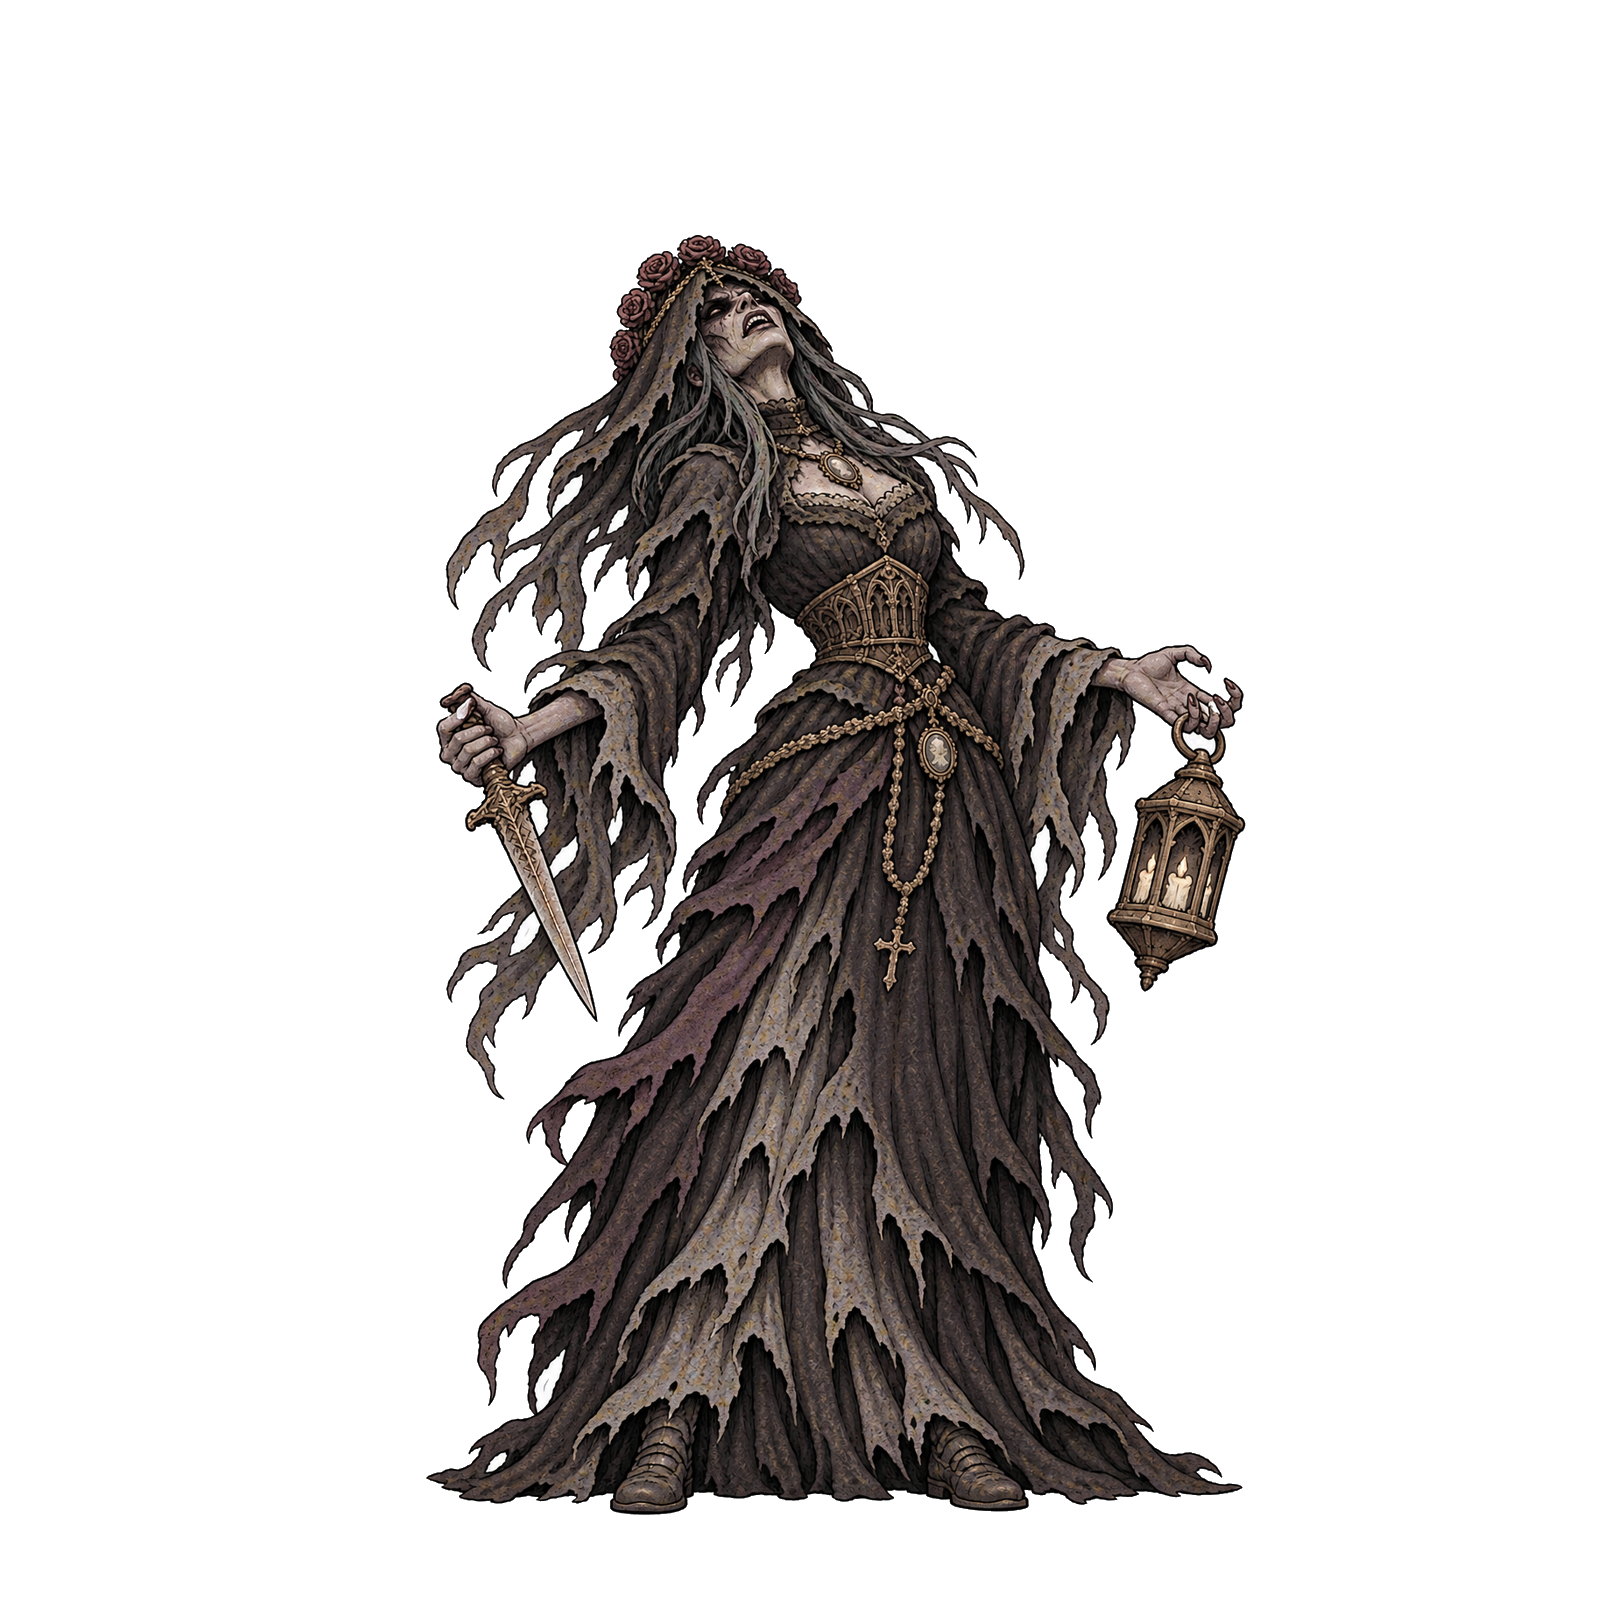
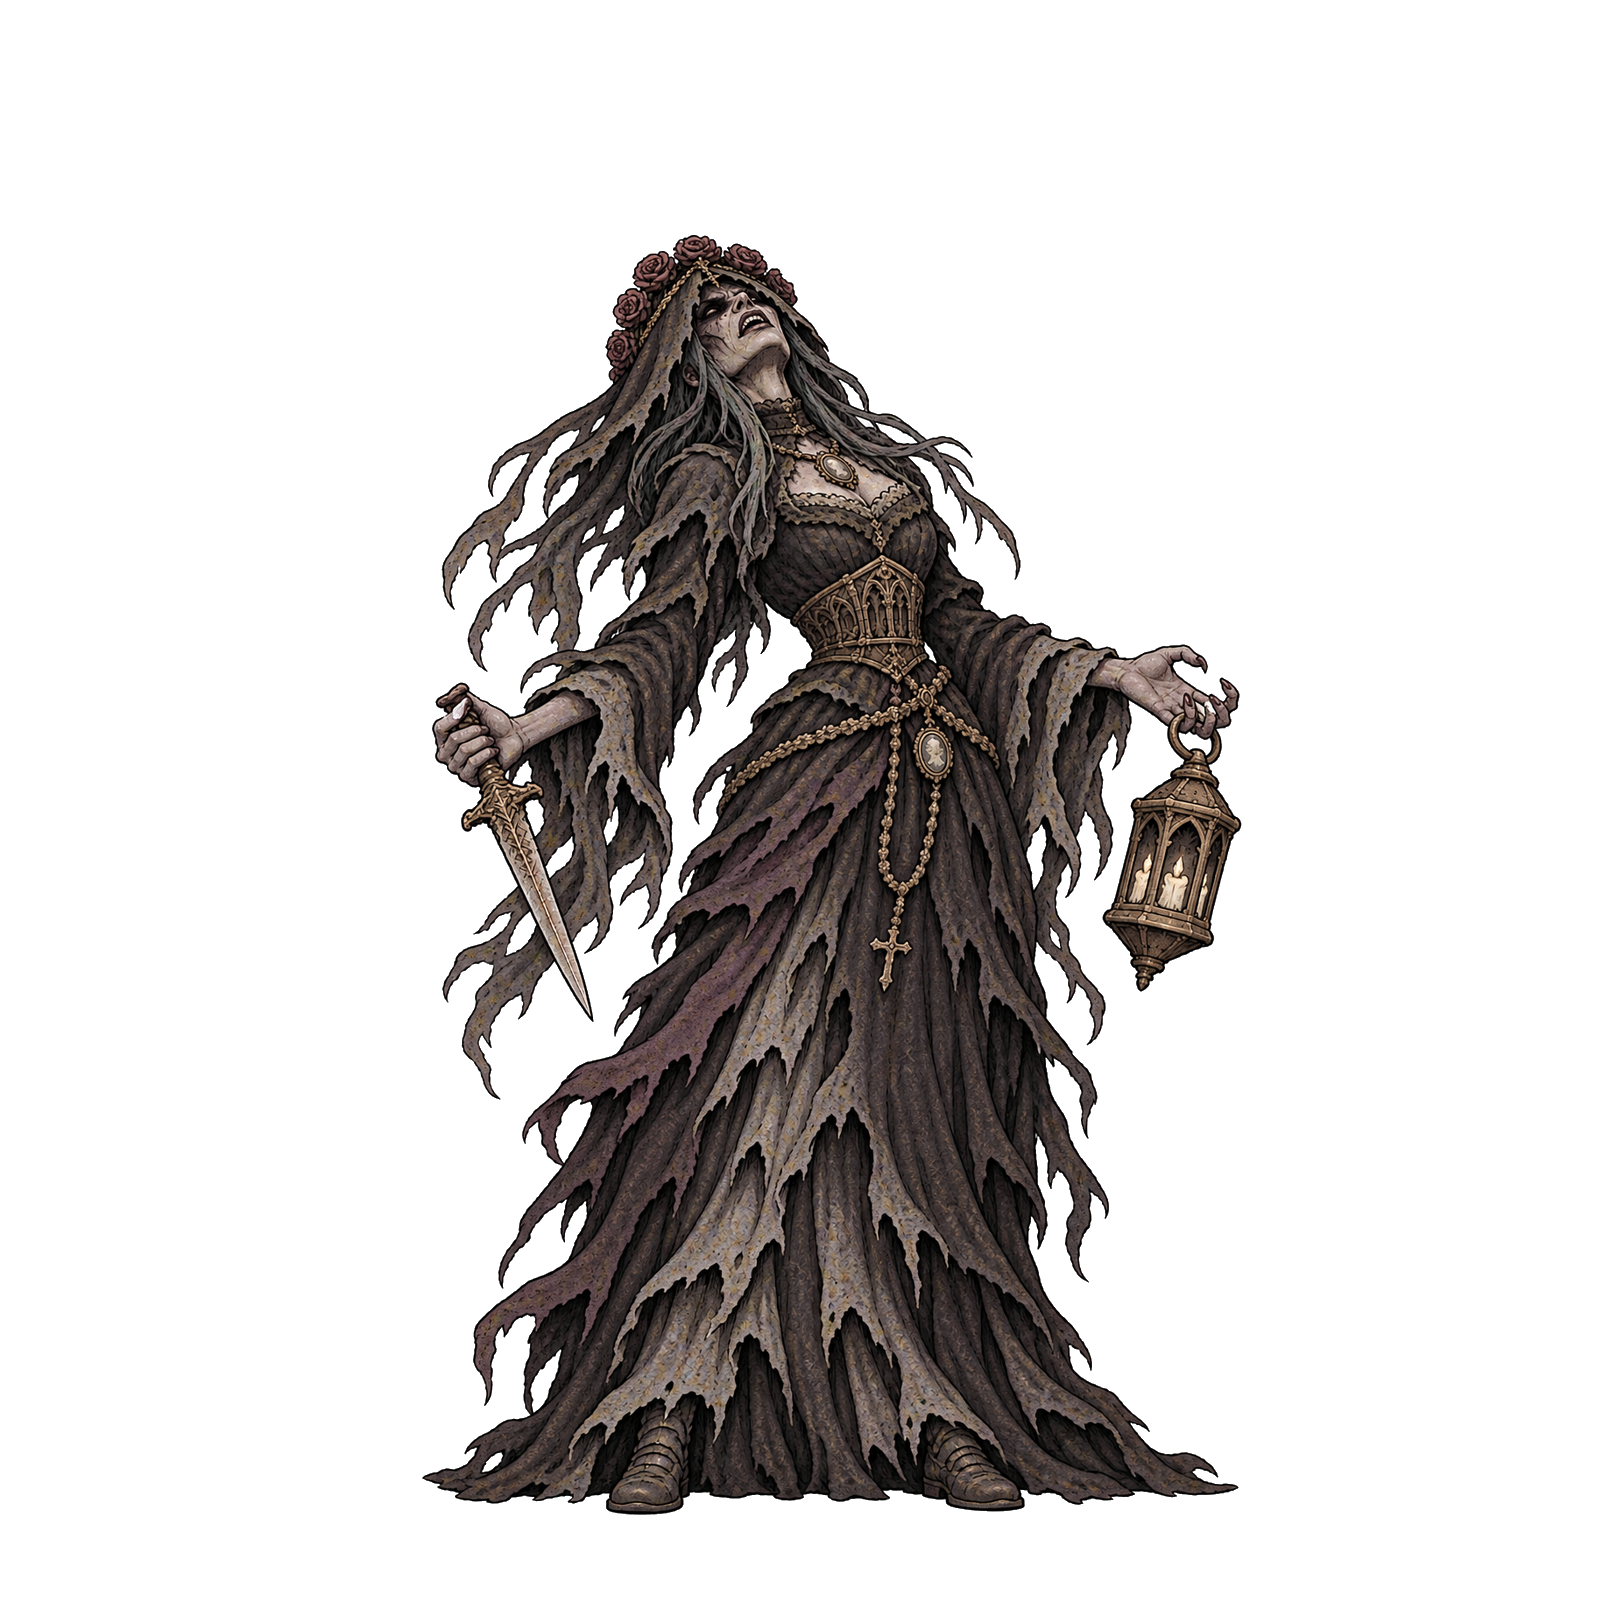
Veuve M03 : plus de blanc dans les creux du lambeau ni sous les bras, tour du liseré inchangé (--liseré-trou)
Claude-Session: https://claude.ai/code/session_016J9VLX1fiPLFcAPYid8ZLe

Changed region(s): [[0.2475, 0.1238, 0.7735, 0.9282]]

diff --git a/tools/make_monster.py b/tools/make_monster.py
@@ -34,6 +34,8 @@ ERODE = 2           # px retirés ensuite (reste de liseré gris)
 FEATHER = 1.0       # px de dégradé du bord
 KEEP_OUTLINE = True  # liseré blanc conservé (voulu) ; --sans-liseré pour le retirer
 SCALES_OVERRIDE = None  # échelles imposées (--echelles=...) ; None = estimation SIFT
+GAP_PX = 90          # liseré uniforme : rayon de fermeture de la silhouette pour repérer les creux (--liseré-trou=N, 0 = liseré partout)
+GAP_DEPTH = 14       # le liseré est supprimé dans les creux à plus de GAP_DEPTH px sous l'enveloppe
 UNIFORM_PX = 0       # > 0 : liseré d'origine remplacé par un liseré blanc de cette épaisseur (--liseré-uniforme)
 FLOOR = 0.94        # position des pieds dans le carré (fraction de la hauteur)
 MARGIN = 0.03       # marge minimale autour de la pose la plus grande
@@ -143,6 +145,13 @@ def uniform_outline(rgb, solid, px):
         touch = np.unique(wl[ndi.binary_dilation(removed, iterations=2) & blob])
         wsz = ndi.sum(blob, wl, range(1, wn + 1))
         removed |= np.isin(wl, [i for i in touch if i and wsz[i - 1] < 1500])
+    # trous du tissu remplis de blanc par l'illustration : aplats d'un blanc franc (≥ 60 px) → retirés (le dessin garde son propre trait noir)
+    strict = (rgb.min(-1) > 0.92) & ((rgb.max(-1) - rgb.min(-1)) < 0.08) & solid & ~removed
+    sl, sn = ndi.label(strict)
+    if sn:
+        ssz = ndi.sum(strict, sl, range(1, sn + 1))
+        core = np.isin(sl, [i + 1 for i, z in enumerate(ssz) if z >= 60])
+        removed |= ndi.binary_dilation(core, iterations=3) & whitish & solid
     inner = solid & ~removed
     lab, n = ndi.label(inner)
     if n > 1:
@@ -150,6 +159,15 @@ def uniform_outline(rgb, solid, px):
         inner = np.isin(lab, [i + 1 for i, z in enumerate(sz) if z > 300])
     dist = ndi.distance_transform_edt(~inner)
     alpha = np.where(inner, 1.0, np.clip(px + 0.5 - dist, 0, 1)).astype(np.float32)
+    # pas de blanc dans les creux : trous du lambeau, dessous des bras, entre le bras et le corps. On ferme la silhouette (fermeture de rayon GAP_PX) ;
+    # le liseré reste collé au contour tant qu'il est près de l'extérieur de cette enveloppe (GAP_DEPTH px), et disparaît plus profond (dans les creux)
+    if GAP_PX > 0:
+        g = GAP_PX
+        pad = np.pad(inner, g + 2)
+        dil = ndi.distance_transform_edt(~pad) <= g
+        ferme = (ndi.distance_transform_edt(dil) > g) | pad
+        prof = ndi.distance_transform_edt(ferme)[g + 2:-(g + 2), g + 2:-(g + 2)]      # profondeur sous l'enveloppe (0 à l'extérieur)
+        alpha[~inner & (prof > GAP_DEPTH)] = 0
     out = np.where(inner[..., None], rgb, 1.0).astype(np.float32)     # liseré : blanc pur, prolongé en blanc au-delà (pas de frange aux mipmaps)
     return out, alpha
 
@@ -218,12 +236,15 @@ def stats(alpha):
                 cx=float((xs * w).sum() / w.sum()))
 
 def main():
-    global KEEP_OUTLINE, UNIFORM_PX, SCALES_OVERRIDE
+    global KEEP_OUTLINE, UNIFORM_PX, SCALES_OVERRIDE, GAP_PX
     if "--sans-liseré" in sys.argv:
         sys.argv.remove("--sans-liseré"); KEEP_OUTLINE = False
     for a in list(sys.argv):
         if a.startswith("--echelles="):
             sys.argv.remove(a); SCALES_OVERRIDE = [float(x) for x in a.split("=")[1].split(",")]; assert len(SCALES_OVERRIDE) == 5
+    for a in list(sys.argv):
+        if a.startswith("--liseré-trou="):
+            sys.argv.remove(a); GAP_PX = int(a.split("=")[1])
     for a in list(sys.argv):
         if a.startswith("--liseré-uniforme"):
             sys.argv.remove(a); UNIFORM_PX = int(a.split("=")[1]) if "=" in a else 5

diff --git a/docs/TECHNIQUE.md b/docs/TECHNIQUE.md
@@ -536,3 +536,4 @@ Après TripoSR, `Converter._bake_command` copie `res://tools_py/bake_texture.py`
 - Taille d'affichage et adaptation à l'écran (2026-10-31) : la Veuve (736 px affichée sur 616 px, réduction ×1,2) paraissait plus nette que M01 (1728 px sur 531 px, ×3,3). Deux remèdes : (1) `veilleur_m01` passe à 1,7 dans `MON_HEIGHTS` (≈ 1,9 m, comme la Veuve) ; (2) `EntityLayer._fit_texture` réduit chaque image Atlas UNE fois, au chargement, en Lanczos, à `FIT_MARGIN` (1,15) × sa taille d'affichage à une case de distance sur l'écran du joueur (`FIT_FRAC` = 0,189 hauteur d'écran par mètre de monde, mesuré en 1440p sur trois monstres), jamais agrandie. Mesuré : carré de M01 affiché sur 451 / 602 / 902 px à 1080p / 1440p / 2160p pour des textures de 519 / 692 / 1038 px (réduction ×1,15 partout). Coût : ≈ 95 ms par image, d'où `warm_poses` (toutes les poses construites à la création du sprite, pas à la première attaque). Mémoire vidéo de M01 à 1440p : ≈ 6 fois moindre. Gain de netteté en image fixe modeste (erreur moyenne vs réduction idéale 5,79 contre 6,08 sans adaptation ; la mesure par variance du laplacien, elle, baisse, car l'ancienne version crépitait) : l'essentiel du gain vient de la taille à l'écran et du biais de mipmap. Interrupteurs des outils de capture : `fit=0`, `fit=<hauteur d'écran>`. La netteté tient surtout au dessin (traits épais, tête grande, peu de micro-texture) : à demander dans le prompt.
 - Fossoyeur sans visage M02 (`mon_fossoyeur`, 2026-10-31) : remplacé par cinq nouvelles images (1024×1536, nouveau prompt), importées avec `--liseré-uniforme=5` (liseré blanc de 5 px sur les cinq poses). Carré de 1568 px, pose d'attente haute de 1425 px (0,909) ; la pose « attaque alternative » est remise à l'échelle (×0,958). Ligne `fossoyeur` de `MON_HEIGHTS` : 1,5 (≈ 1,77 m, comme l'ancien) ; buste `[0.492, 0.16, 0.13]`. Résistances et effets inchangés.
 - Veuve des Cryptes M03 (`mon_veuve`) : remplacée par la nouvelle génération (épousée humaine, même id, même nom, mêmes résistances). Importée avec `--liseré-uniforme=5` et `--echelles=1.000,0.834,0.876,0.894,1.000` calculées par `tools/estimate_scales.py` (appariement SIFT de toutes les paires de poses ; l'appariement direct à l'attente échouait pour l'attaque, l'attaque alternative et la mort). Carré 1616 px, attente 1459 px. Ordre des images : repos, attaque, coup reçu, attaque alternative, mort ; l'attribution attaque / attaque alternative a été choisie d'après le contenu. L'échelle de la pose de mort reste à 1,0 (aucune paire fiable) : à contrôler à l'œil. Hauteur en jeu `veuve` 1.66, médaillon `[0.507, 0.155, 0.115]`.
+- Liseré uniforme : le blanc est retiré dans les creux (trous du lambeau, dessous des bras) par fermeture de la silhouette (`--liseré-trou=N`, 90 px par défaut, profondeur 14 px), le tour reste collé au contour ; les aplats blancs ≥ 60 px du dessin d'origine sont aussi retirés. Appliqué à la Veuve M03 ; le M01 et le M02 gardent l'ancien tracé.
